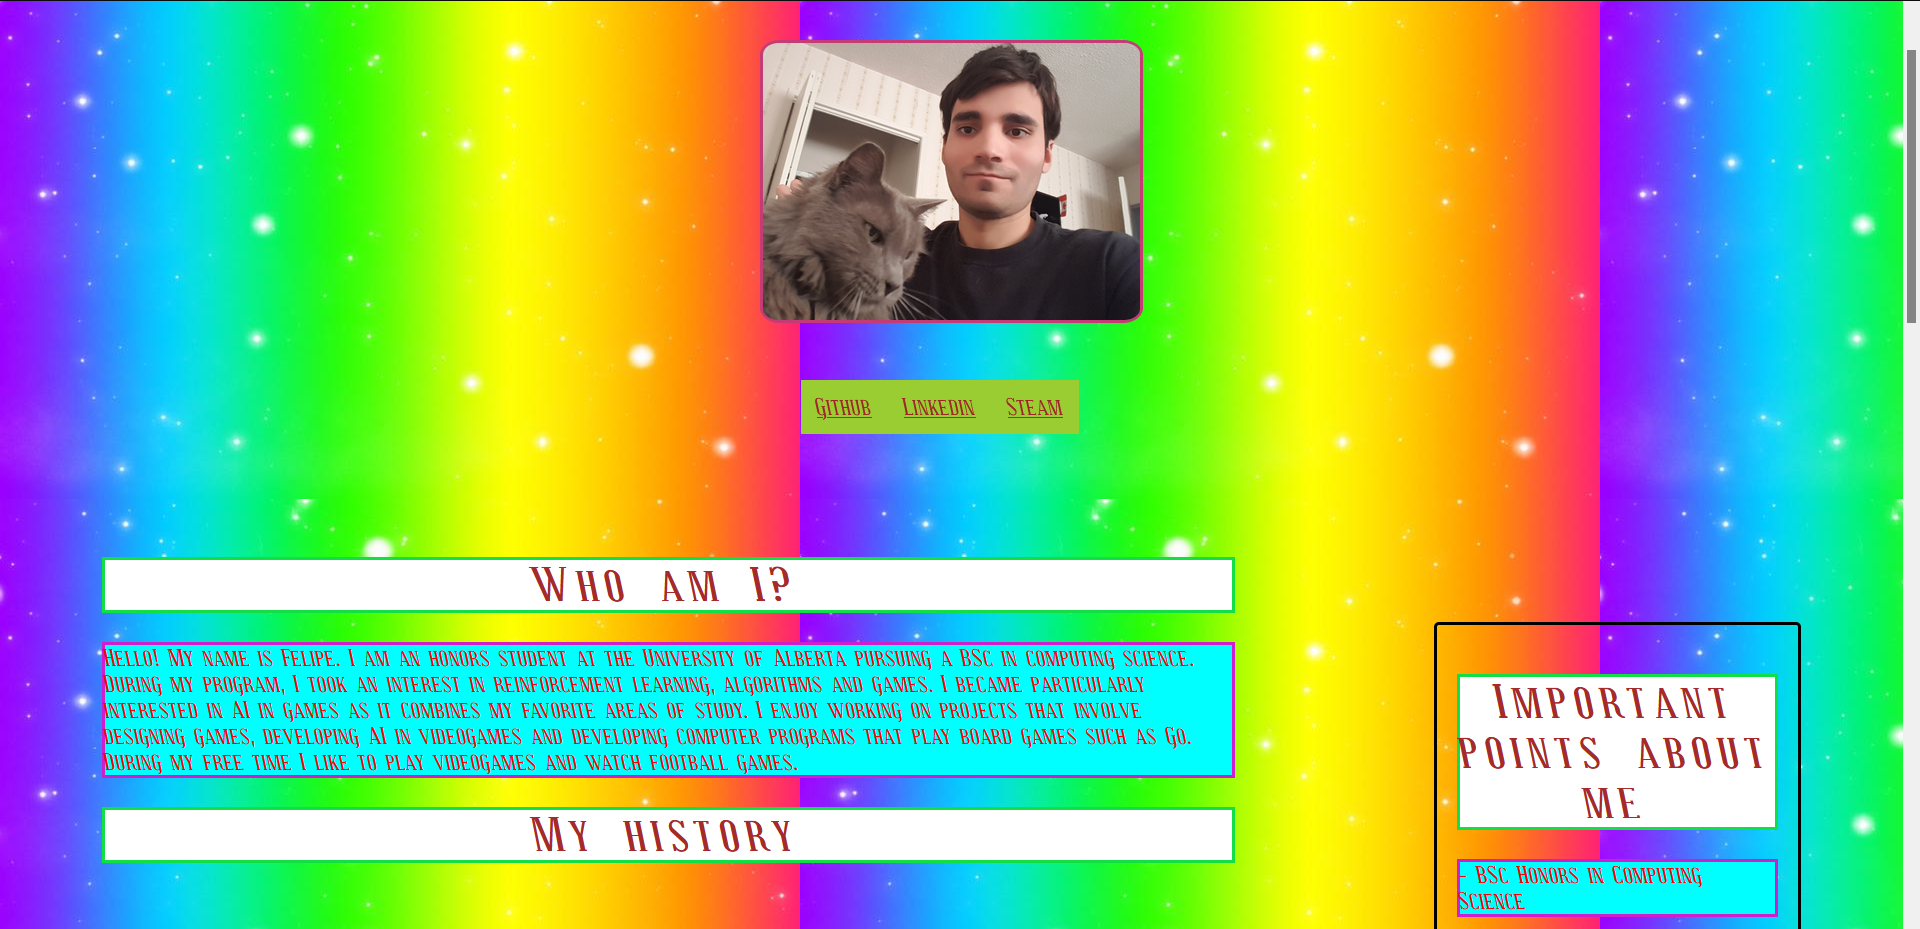
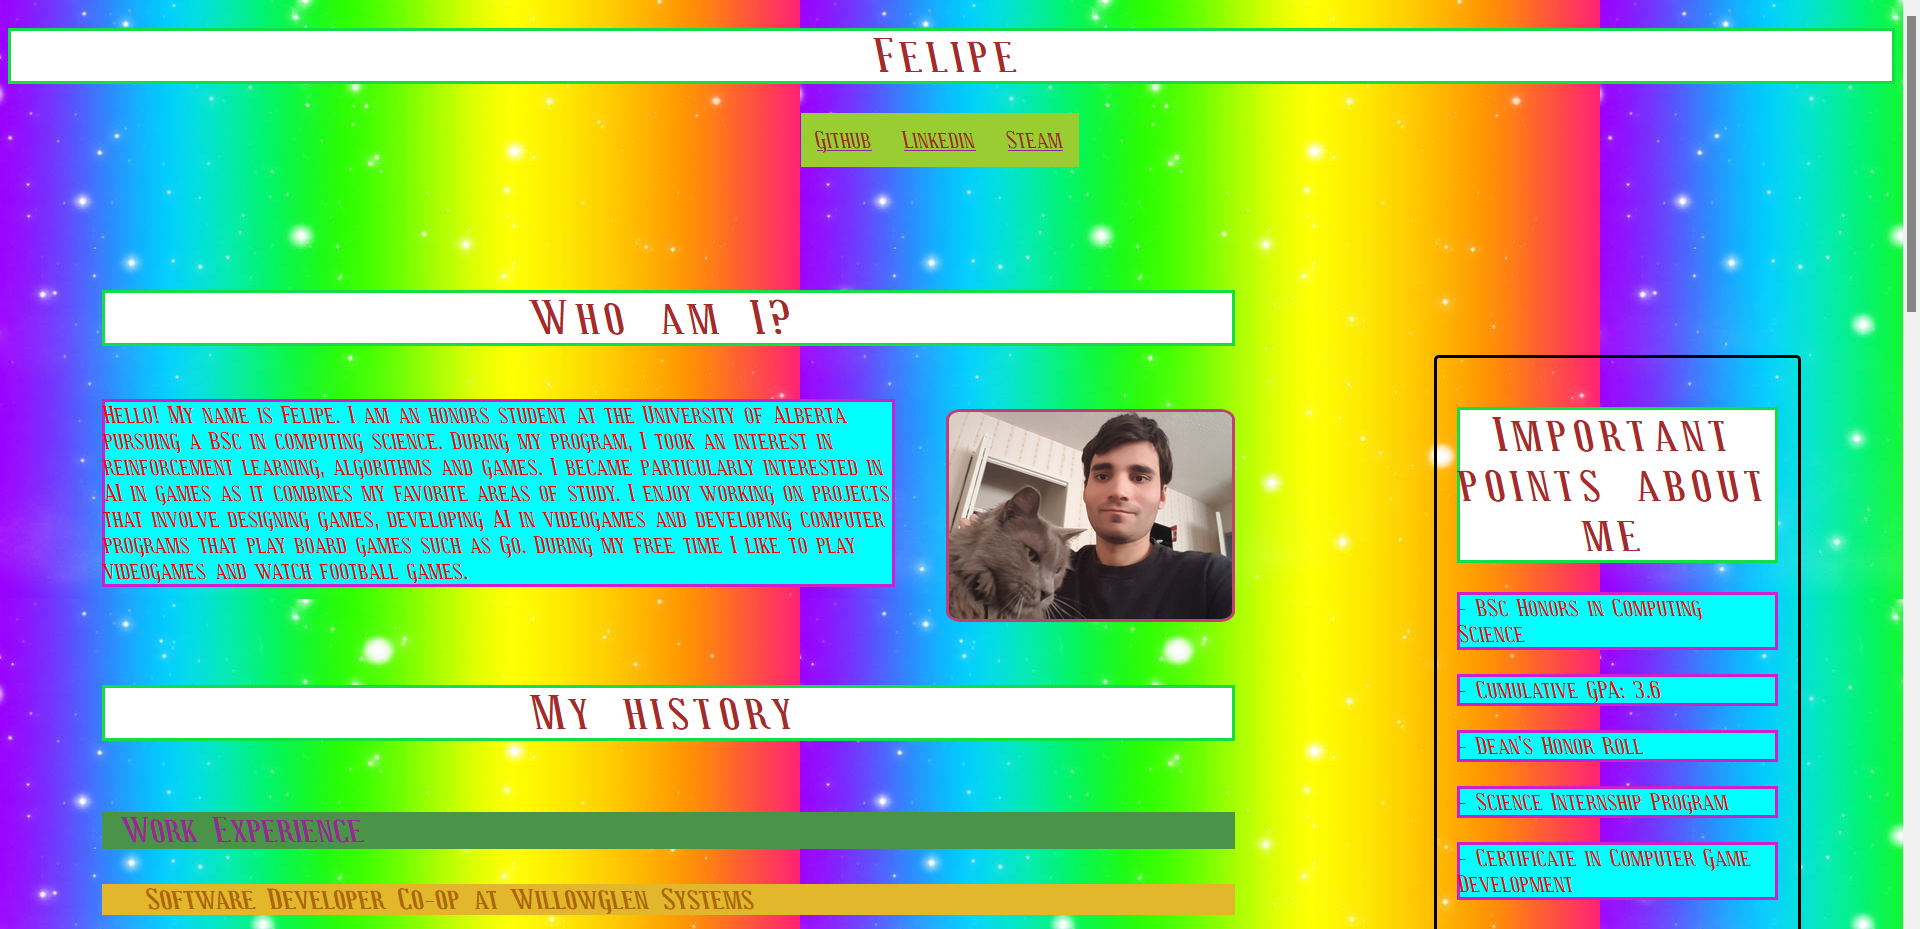
done. need to update README

diff --git a/homepage/good.html b/homepage/good.html
@@ -5,7 +5,6 @@
     </head>
     <body>
         <h1> Felipe </h1>
-        <img src="profile_picture.jpg">
         <ul>
             <li><a href="https://github.com/3662">Github</a></li>
             <li><a href="https://www.linkedin.com/in/felipe-rodriguez-atuesta-86a5281ba/">Linkedin</a></li>
@@ -14,6 +13,7 @@
 
         <div class="container">
             <h1> Who am I? </h1>
+            <img src="profile_picture.jpg">
             <div class="section1">
                 <p> 
                     Hello! My name is Felipe. I am an honors student at the University of Alberta pursuing 

diff --git a/homepage/ugly.html b/homepage/ugly.html
@@ -5,7 +5,6 @@
     </head>
     <body>
         <h1> Felipe </h1>
-        <img src="profile_picture.jpg">
         <ul>
             <li><a href="https://github.com/3662">Github</a></li>
             <li><a href="https://www.linkedin.com/in/felipe-rodriguez-atuesta-86a5281ba/">Linkedin</a></li>
@@ -14,6 +13,7 @@
 
         <div class="container">
             <h1> Who am I? </h1>
+            <img src="profile_picture.jpg">
             <div class="section1">
                 <p> 
                     Hello! My name is Felipe. I am an honors student at the University of Alberta pursuing 

diff --git a/homepage/ugly.css b/homepage/ugly.css
@@ -12,6 +12,15 @@ body {
     float: left;
 }
 
+.section1 {
+    width: 70%;
+    float: left;
+}
+
+.section2 {
+    margin-top: 30%;
+}
+
 .sidebar {
     margin-top: 10%;
     margin-right: 5%;
@@ -29,10 +38,9 @@ body {
 img {
     display: block;
     border-radius: 5%;
-    width: 20%;
-    height: 20%;
-    margin-left: auto;
-    margin-right: auto;
+    width: 25%;
+    height: 25%;
+    float: right;
     margin-top: 3%;
     margin-bottom: 3%;
     border: 3px solid rgb(197, 59, 117);

diff --git a/homepage/good.css b/homepage/good.css
@@ -9,6 +9,15 @@ body {
     float: left;
 }
 
+.section1 {
+    width: 70%;
+    float: left;
+}
+
+.section2 {
+    margin-top: 30%;
+}
+
 .sidebar {
     margin-top: 10%;
     margin-right: 5%;
@@ -26,10 +35,9 @@ body {
 img {
     display: block;
     border-radius: 5%;
-    width: 20%;
-    height: 20%;
-    margin-left: auto;
-    margin-right: auto;
+    width: 25%;
+    height: 25%;
+    float: right;
     margin-top: 3%;
     margin-bottom: 3%;
     border: 3px solid black;
